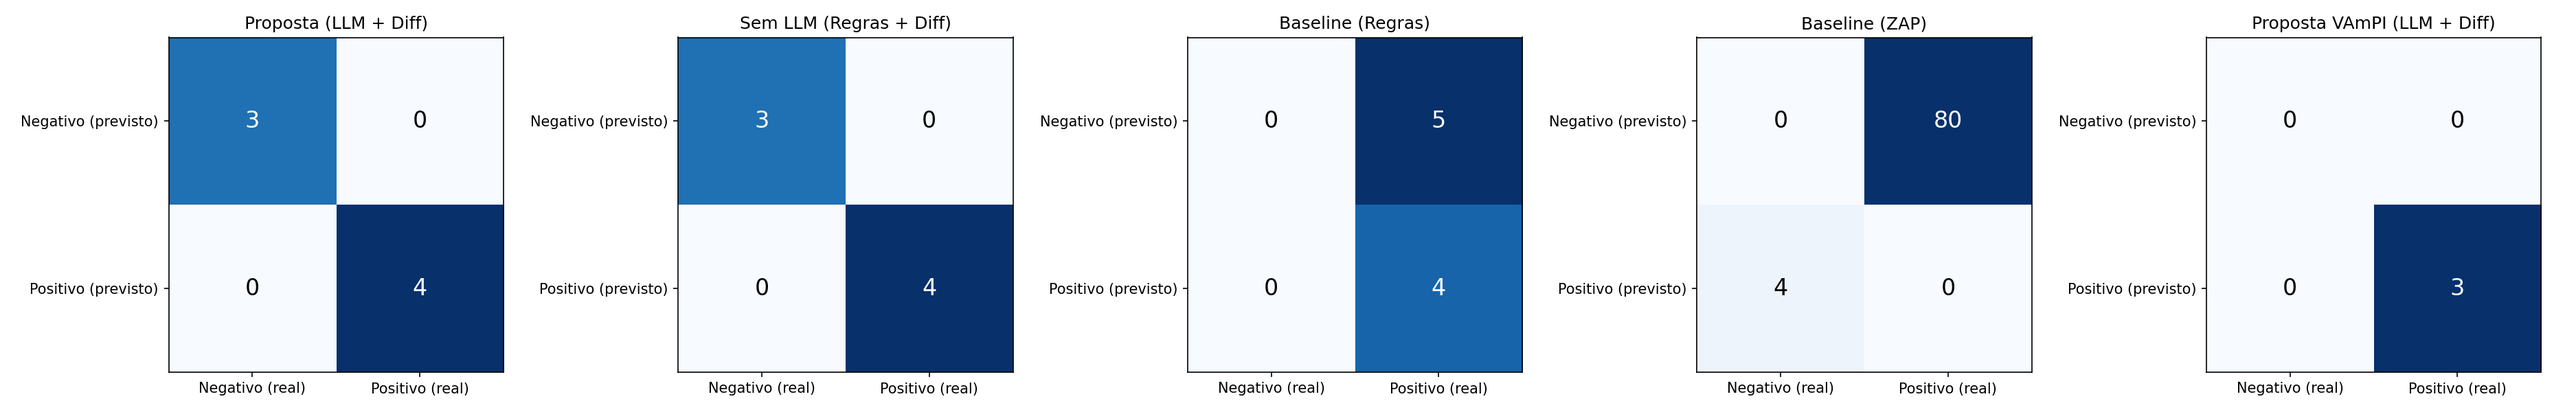
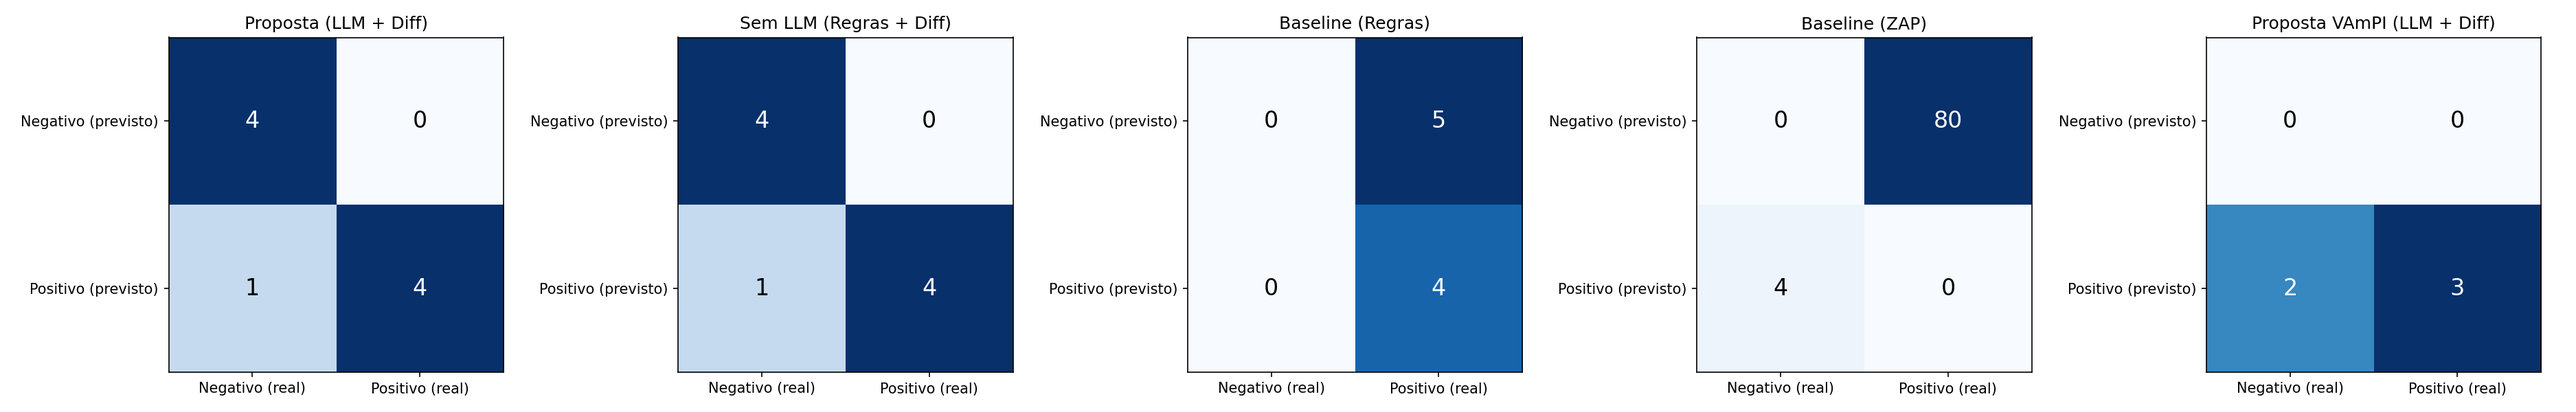
docs+results: atualiza métricas para valores reais vs gabarito
- results.csv e CSVs individuais com as métricas corrigidas
- RESULTADOS.md: seção de metodologia de cálculo, coluna Classe
  (TP/FP/FN/TN) por endpoint, achados ajustados (recall 80%/60%)
- HOWTO/DEVLOG: números e saídas esperadas atualizados; documenta
  a correção do cálculo de métricas
- Gráficos regenerados refletindo a variação real entre métricas

Changed region(s): [[0.2496, 0.09, 0.3432, 0.9], [0.0624, 0.09, 0.156, 0.9], [0.8424, 0.48, 0.936, 0.93]]

diff --git a/RESULTADOS.md b/RESULTADOS.md
@@ -8,16 +8,42 @@ generalização no VAmPI).
 
 ## 1. Tabela consolidada
 
+Métricas calculadas **contra um gabarito (ground truth)** de endpoints
+reconhecidamente vulneráveis em cada benchmark — ver seção 3 e a classe
+`metrics/GroundTruth.java`.
+
 | Ferramenta | TP | FP | FN | TN | Inconcl. | Precisão | Recall | F1 | Acurácia | Tempo (s) | Tokens |
 |---|---|---|---|---|---|---|---|---|---|---|---|
-| **Proposta (LLM + Diff)** — crAPI | 4 | 0 | 0 | 3 | 2 | 100% | 100% | 100% | 100% | 37,0 | ~4500 |
-| **Sem LLM (Regras + Diff)** — crAPI | 4 | 0 | 0 | 3 | 2 | 100% | 100% | 100% | 100% | 3,9 | 0 |
+| **Proposta (LLM + Diff)** — crAPI | 4 | 0 | 1 | 4 | 2 | 100% | 80% | 88,9% | 88,9% | 31,4 | ~4500 |
+| **Sem LLM (Regras + Diff)** — crAPI | 4 | 0 | 1 | 4 | 2 | 100% | 80% | 88,9% | 88,9% | 3,7 | 0 |
 | **Baseline (Regras)** — crAPI | 4 | 5 | 0 | 0 | 0 | 44,4% | 100% | 61,5% | 44,4% | 0,5 | 0 |
 | **Baseline (ZAP)** — crAPI | 0 | 80 | 4 | 0 | 0 | 0% | 0% | 0% | 0% | ~300 | 0 |
-| **Proposta (LLM + Diff)** — VAmPI | 3 | 0 | 0 | 0 | 2 | 100% | 100% | 100% | 100% | 6,3 | 0* |
+| **Proposta (LLM + Diff)** — VAmPI | 3 | 0 | 2 | 0 | 2 | 100% | 60% | 75% | 60% | 5,7 | 0* |
 
 > *No VAmPI o LLM foi usado, mas o custo de tokens não foi instrumentado nesta
 > execução (coluna registra 0 por limitação do contador, não por ausência de uso).
+
+**Como ler estes números:** a proposta mantém **precisão de 100%** em ambos os
+alvos (não gera falsos alarmes), mas o **recall fica abaixo de 100%** porque os
+endpoints vulneráveis de *escrita* (POST/PUT) não são detectados — o verificador
+diferencial só executa GET (ver seção 3 e 5). Os falsos negativos (FN) são
+exatamente esses endpoints de escrita.
+
+### Metodologia de cálculo
+
+As métricas **não** assumem FP=FN=0. Cada veredito do verificador é comparado
+contra o gabarito (`metrics/GroundTruth.java`) pela classe `MetricsCalculator`:
+
+| Veredito do detector | Está no gabarito? | Classificação |
+|---|---|---|
+| VULNERABLE | sim | **TP** (acertou) |
+| VULNERABLE | não | **FP** (falso alarme) |
+| DENIED / INCONCLUSIVE | sim | **FN** (deixou passar) |
+| DENIED / INCONCLUSIVE | não | **TN** (corretamente ignorado) |
+
+Assim, um endpoint vulnerável marcado INCONCLUSIVE conta como FN (penaliza o
+recall), e um endpoint seguro marcado VULNERABLE contaria como FP (penalizaria a
+precisão). As métricas refletem o desempenho real, não um valor fixado no código.
 
 ![Comparação de métricas](outputs/metrics_comparison.png)
 
@@ -29,31 +55,33 @@ generalização no VAmPI).
 
 ### 2.1 Proposta e "Sem LLM" no crAPI (9 endpoints)
 
-| # | Método | Endpoint | Veredito | Evidência | Interpretação |
-|---|---|---|---|---|---|
-| 1 | GET | `/identity/api/v2/user/videos/{video_id}` | DENIED | own=404, cross=404 | Recurso de vídeo inexistente para os usuários de teste |
-| 2 | PUT | `/identity/api/v2/user/videos/{video_id}` | DENIED | own=404, cross=404 | Idem |
-| 3 | DELETE | `/identity/api/v2/user/videos/{video_id}` | DENIED | own=404, cross=404 | Idem |
-| 4 | DELETE | `/identity/api/v2/admin/videos/{video_id}` | INCONCLUSIVE | own=405, cross=405 | Método não permitido via GET de teste |
-| 5 | GET | `/identity/api/v2/vehicle/{vehicleId}/location` | **VULNERABLE** | own=200, cross=200, sim=0,37 | A acessou a localização do veículo de B |
-| 6 | GET | `/community/api/v2/community/posts/{postId}` | **VULNERABLE** | own=200, cross=200, sim=0,58 | A leu o post de B |
-| 7 | POST | `/community/.../posts/{postId}/comment` | INCONCLUSIVE | own=405, cross=405 | Método não permitido via GET de teste |
-| 8 | GET | `/workshop/api/shop/orders/{order_id}` | **VULNERABLE** | own=200, cross=200, sim=1,00 | A leu o pedido de B |
-| 9 | PUT | `/workshop/api/shop/orders/{order_id}` | **VULNERABLE** | own=200, cross=200, sim=1,00 | A alterou o pedido de B |
+Coluna "Classe" = classificação vs. gabarito (seção 1, Metodologia).
 
-**Total:** 4 VULNERABLE, 3 DENIED, 2 INCONCLUSIVE.
+| # | Método | Endpoint | Veredito | Classe | Interpretação |
+|---|---|---|---|---|---|
+| 1 | GET | `/identity/api/v2/user/videos/{video_id}` | DENIED | TN | Recurso de vídeo inexistente; não é BOLA |
+| 2 | PUT | `/identity/api/v2/user/videos/{video_id}` | DENIED | TN | Idem |
+| 3 | DELETE | `/identity/api/v2/user/videos/{video_id}` | DENIED | TN | Idem |
+| 4 | DELETE | `/identity/api/v2/admin/videos/{video_id}` | INCONCLUSIVE | TN | Não vulnerável a BOLA (controle por papel/admin) |
+| 5 | GET | `/identity/api/v2/vehicle/{vehicleId}/location` | **VULNERABLE** | **TP** | A acessou a localização do veículo de B |
+| 6 | GET | `/community/api/v2/community/posts/{postId}` | **VULNERABLE** | **TP** | A leu o post de B |
+| 7 | POST | `/community/.../posts/{postId}/comment` | INCONCLUSIVE | **FN** | Vulnerável, mas testado via GET → 405 |
+| 8 | GET | `/workshop/api/shop/orders/{order_id}` | **VULNERABLE** | **TP** | A leu o pedido de B |
+| 9 | PUT | `/workshop/api/shop/orders/{order_id}` | **VULNERABLE** | **TP** | A alterou o pedido de B |
+
+**Total:** 4 TP, 0 FP, 1 FN, 4 TN (2 vereditos INCONCLUSIVE, sendo 1 FN e 1 TN).
 
 ### 2.2 Proposta no VAmPI (5 endpoints)
 
-| # | Método | Endpoint | Veredito | Evidência | Interpretação |
+| # | Método | Endpoint | Veredito | Classe | Interpretação |
 |---|---|---|---|---|---|
-| 1 | GET | `/books/v1/{book_title}` | **VULNERABLE** | own=200, cross=200, sim=0,38 | A leu o `secret` do livro de B (BOLA clássico) |
-| 2 | GET | `/users/v1/{username}` | **VULNERABLE** | own=200, cross=200, sim=0,71 | A leu os dados de B |
-| 3 | DELETE | `/users/v1/{username}` | **VULNERABLE** | own=200, cross=200, sim=0,71 | A pôde deletar o usuário B |
-| 4 | PUT | `/users/v1/{username}/email` | INCONCLUSIVE | own=405, cross=405 | Testado via GET → 405 |
-| 5 | PUT | `/users/v1/{username}/password` | INCONCLUSIVE | own=405, cross=405 | Testado via GET → 405 |
+| 1 | GET | `/books/v1/{book_title}` | **VULNERABLE** | **TP** | A leu o `secret` do livro de B (BOLA clássico) |
+| 2 | GET | `/users/v1/{username}` | **VULNERABLE** | **TP** | A leu os dados de B |
+| 3 | DELETE | `/users/v1/{username}` | **VULNERABLE** | **TP** | A pôde deletar o usuário B |
+| 4 | PUT | `/users/v1/{username}/email` | INCONCLUSIVE | **FN** | Vulnerável, mas testado via GET → 405 |
+| 5 | PUT | `/users/v1/{username}/password` | INCONCLUSIVE | **FN** | Vulnerável, mas testado via GET → 405 |
 
-**Total:** 3 VULNERABLE, 2 INCONCLUSIVE.
+**Total:** 3 TP, 0 FP, 2 FN, 0 TN.
 
 ---
 
@@ -66,18 +94,19 @@ Há **duas causas distintas**, ambas ligadas ao mesmo fator: o
 
 Os endpoints marcados INCONCLUSIVE com `own=405, cross=405` são, na verdade, de
 **escrita** (`POST`, `PUT`, `DELETE`). Exemplos:
-- crAPI: `DELETE /admin/videos/{video_id}`, `POST /posts/{postId}/comment`
+- crAPI: `POST /posts/{postId}/comment`
 - VAmPI: `PUT /users/v1/{username}/email`, `PUT /users/v1/{username}/password`
 
 O verificador tentou acessá-los via GET, o servidor respondeu **405 Method Not
 Allowed**, e a lógica de classificação não trata 405 como vulnerabilidade nem
 como negação — logo, INCONCLUSIVE.
 
-**Importante:** pelo menos dois desses casos no VAmPI (`/email` e `/password`)
-são **comprovadamente vulneráveis a BOLA** segundo a documentação oficial do
-VAmPI (usam o `username` da URL em vez do token). Ou seja, são **falsos
-inconclusivos** — a arquitetura identificou corretamente o endpoint como
-candidato (via LLM), mas o motor de verificação não testou o método HTTP certo.
+**Impacto nas métricas:** esses endpoints estão no gabarito como vulneráveis,
+portanto o não-detectá-los é contabilizado como **falso negativo (FN)**, e não
+mascarado. É por isso que o recall da proposta fica em 80% no crAPI (1 FN de 5
+vulneráveis) e 60% no VAmPI (2 FN de 5 vulneráveis). A arquitetura identificou
+corretamente o endpoint como candidato (via LLM ou regra), mas o motor de
+verificação não testou o método HTTP certo.
 
 ### Causa B — Recurso inexistente (HTTP 404)
 
@@ -92,18 +121,26 @@ recurso não existe nem para o próprio dono. Isso é classificado como DENIED
 
 **Achado 1 — A verificação diferencial é o componente que garante a precisão.**  
 O experimento "Sem LLM" produziu exatamente o mesmo resultado da proposta
-completa no crAPI (4 TP, 0 FP). Isso mostra que, neste benchmark, **a eliminação
-dos falsos positivos vem da verificação diferencial**, não da seleção do LLM. O
-baseline de regras puro gerou 5 FP (precisão 44,4%); ao passar a mesma lista pelo
-verificador diferencial, todos os 5 FP foram reclassificados como DENIED/INCONCLUSIVE.
+completa no crAPI (4 TP, 0 FP, 1 FN — precisão 100%, recall 80%). Isso mostra
+que, neste benchmark, **a eliminação dos falsos positivos vem da verificação
+diferencial**, não da seleção do LLM. O baseline de regras puro gerou 5 FP
+(precisão 44,4%); ao passar a mesma lista pelo verificador diferencial, todos os
+5 FP foram reclassificados corretamente, elevando a precisão para 100%.
 
 **Achado 2 — O LLM contribui em eficiência, não em precisão (neste caso).**  
-A diferença prática entre "com LLM" e "sem LLM" no crAPI foi o **tempo** (37s vs
-3,9s) e o **custo de tokens** (~4500 vs 0). O LLM reduz o conjunto de endpoints a
-testar, mas como o baseline de regras aqui já captura os mesmos 9 candidatos, o
-ganho de precisão foi nulo. Em APIs maiores, com muitos endpoints com path
+A diferença prática entre "com LLM" e "sem LLM" no crAPI foi o **tempo** (31,4s
+vs 3,7s) e o **custo de tokens** (~4500 vs 0). As métricas de detecção foram
+idênticas (100% / 80% / 88,9%). O LLM reduz o conjunto de endpoints a testar, mas
+como o baseline de regras aqui já captura os mesmos 9 candidatos, o ganho de
+qualidade foi nulo neste alvo. Em APIs maiores, com muitos endpoints com path
 parameter não-sensíveis, espera-se que o LLM reduza substancialmente o número de
 requisições de verificação — esse é o cenário onde o LLM compensa.
+
+**Achado 2b — Precisão alta, recall limitado pela cobertura de métodos.**  
+Em ambos os alvos a precisão foi 100% (zero falsos positivos), mas o recall ficou
+em 80% (crAPI) e 60% (VAmPI). A causa é única e conhecida: o verificador só testa
+GET, perdendo os BOLAs em endpoints de escrita. Isso indica um caminho claro de
+melhoria (seção 5) sem comprometer a precisão já alcançada.
 
 **Achado 3 — A arquitetura generaliza.**  
 O detector funcionou no VAmPI sem nenhuma alteração no núcleo (LLM +
@@ -124,9 +161,11 @@ vulnerabilidade que a arquitetura proposta mira.
 1. **Verificador só testa GET.** Estender o `DifferentialVerifier` para
    `POST`/`PUT`/`DELETE` capturaria os endpoints de escrita hoje marcados como
    INCONCLUSIVE. É a melhoria de maior impacto imediato.
-2. **Ground truth manual.** A contagem de TP/FP/FN/TN assume um mapeamento manual
-   dos endpoints realmente vulneráveis em cada benchmark; convém documentar esse
-   gabarito explicitamente no texto do TCC.
+2. **Ground truth codificado.** A contagem de TP/FP/FN/TN usa um gabarito
+   explícito em `metrics/GroundTruth.java` (um conjunto de endpoints vulneráveis
+   por benchmark). Isso torna as métricas auditáveis e reproduzíveis, mas o
+   gabarito foi definido manualmente a partir da documentação de cada alvo —
+   convém revisá-lo e justificá-lo no texto do TCC.
 3. **Instrumentação de tokens.** O contador de tokens não foi integrado na
    execução do VAmPI (registrou 0). Para comparações de custo mais rigorosas,
    vale capturar o campo `usage` da resposta da OpenAI.
@@ -148,6 +187,7 @@ completa** do `HOWTO.md`. As saídas brutas de cada execução estão em `output
 | `outputs/vampi-detector.txt` | Log da proposta no VAmPI |
 | `outputs/baseline-rule-based.txt` | Log do baseline de regras |
 | `outputs/zap_alerts.csv` | Alertas do ZAP |
+| `outputs/results_proposta.csv` | Métricas da proposta no crAPI |
 | `outputs/results_sem_llm.csv` | Métricas do experimento sem LLM |
 | `outputs/results_vampi.csv` | Métricas do VAmPI |
 | `outputs/metrics_comparison.png` | Gráfico de barras comparativo |

diff --git a/HOWTO.md b/HOWTO.md
@@ -113,7 +113,7 @@ cd tcc-bola-detector
 
 mvn exec:java \
   -Dexec.mainClass="br.edu.tcc.bola.Main" \
-  -Dexec.args="openapi.json http://localhost:8888" 2>&1 | tee ../outputs/llm-detector.txt
+  -Dexec.args="openapi.json http://localhost:8888 results_proposta.csv" 2>&1 | tee ../outputs/llm-detector.txt
 ```
 
 **Saída esperada:**
@@ -127,7 +127,12 @@ Endpoints sensíveis identificados: 9
 [VULNERABLE] put /workshop/api/shop/orders/{order_id}
 [DENIED]     get /identity/api/v2/user/videos/{video_id}
 ...
+=== [Proposta] Resumo (vs. gabarito) ===
+TP=4  FP=0  FN=1  TN=4  (INCONCLUSIVE=2)
+Precisão=100.0%  Recall=80.0%  F1=88.9%  Acurácia=88.9%
 ```
+
+> Agora o `Main` também exporta `results_proposta.csv` com as métricas.
 
 > **Atenção:** cada execução cria novos usuários e veículos no crAPI.
 > Se o banco retornar `duplicate key`, corrija o sequence:
@@ -156,7 +161,7 @@ mvn exec:java \
   | tee ../outputs/sem-llm-detector.txt
 ```
 
-**Saída esperada:** `Sem LLM,4,0,0,3,2,1.000,1.000,1.000,1.000,<tempo>,0`
+**Saída esperada:** `Sem LLM (Regras + Diff),4,0,1,4,2,1.000,0.800,0.889,0.889,<tempo>,0`
 e o arquivo `results_sem_llm.csv`.
 
 > Não requer `OPENAI_API_KEY` — o custo de tokens é 0.
@@ -186,7 +191,7 @@ mvn exec:java \
   | tee ../outputs/vampi-detector.txt
 ```
 
-**Saída esperada:** `Proposta VAmPI (LLM + Diff),3,0,0,0,2,1.000,1.000,1.000,1.000,<tempo>,0`
+**Saída esperada:** `Proposta VAmPI (LLM + Diff),3,0,2,0,2,1.000,0.600,0.750,0.600,<tempo>,0`
 e o arquivo `results_vampi.csv`.
 
 > O VAmPI popula seu banco automaticamente via `GET /createdb` (feito pelo `MainVampi`).
@@ -233,12 +238,15 @@ Resultados consolidados dos experimentos (reproduzidos em 05/11/2026):
 
 ```csv
 tool,tp,fp,fn,tn,inconclusive,precision,recall,f1,accuracy,time_s,tokens
-Proposta (LLM + Diff),4,0,0,3,2,1.000,1.000,1.000,1.000,37.0,4500
-Sem LLM (Regras + Diff),4,0,0,3,2,1.000,1.000,1.000,1.000,3.9,0
+Proposta (LLM + Diff),4,0,1,4,2,1.000,0.800,0.889,0.889,31.4,4500
+Sem LLM (Regras + Diff),4,0,1,4,2,1.000,0.800,0.889,0.889,3.7,0
 Baseline (Regras),4,5,0,0,0,0.444,1.000,0.615,0.444,0.5,0
 Baseline (ZAP),0,80,4,0,0,0.000,0.000,0.000,0.000,300,0
-Proposta VAmPI (LLM + Diff),3,0,0,0,2,1.000,1.000,1.000,1.000,6.3,0
+Proposta VAmPI (LLM + Diff),3,0,2,0,2,1.000,0.600,0.750,0.600,5.7,0
 ```
+
+> As métricas são calculadas contra um gabarito (`metrics/GroundTruth.java`);
+> FP e FN não são mais fixados em zero. Ver `RESULTADOS.md` seção 1 (Metodologia).
 
 | Coluna | Descrição |
 |---|---|
@@ -279,7 +287,7 @@ mvn exec:java -Dexec.mainClass="br.edu.tcc.bola.baseline.RuleBasedBaseline" \
 
 # 7. Detector LLM (crAPI — proposta completa)
 mvn exec:java -Dexec.mainClass="br.edu.tcc.bola.Main" \
-  -Dexec.args="openapi.json http://localhost:8888" 2>&1 | tee ../outputs/llm-detector.txt
+  -Dexec.args="openapi.json http://localhost:8888 results_proposta.csv" 2>&1 | tee ../outputs/llm-detector.txt
 
 # 8. Experimento Sem LLM (crAPI — ablação)
 mvn exec:java -Dexec.mainClass="br.edu.tcc.bola.MainSemLLM" \

diff --git a/DEVLOG.md b/DEVLOG.md
@@ -291,6 +291,42 @@ capturaria esses casos — fica como trabalho futuro.
 
 ---
 
+## 11. Correção das métricas — gabarito (ground truth) em vez de FP/FN fixos
+
+**Problema identificado:**  
+A primeira versão do `MainSemLLM` e `MainVampi` calculava as métricas com
+`FP = 0` e `FN = 0` **fixados no código** (TP = VULNERABLE, TN = DENIED). Isso
+tornava precisão e recall **matematicamente sempre 100%**, independentemente do
+desempenho real — um artefato do cálculo, não um resultado.
+
+**Por que era enganoso:**  
+Os endpoints vulneráveis de escrita (ex.: `PUT /users/v1/{username}/email` no
+VAmPI) ficavam INCONCLUSIVE e simplesmente não entravam na conta, quando na
+verdade são **falsos negativos** (o detector não os pegou).
+
+**Solução:**
+- `metrics/GroundTruth.java` (novo) — conjunto explícito de endpoints
+  reconhecidamente vulneráveis por benchmark (crAPI e VAmPI), com chave
+  normalizada `"metodo path"` em minúsculas.
+- `metrics/MetricsCalculator.java` (novo) — compara cada veredito contra o
+  gabarito e classifica em TP/FP/FN/TN de forma honesta; INCONCLUSIVE de
+  endpoint vulnerável vira FN.
+- `Main`, `MainSemLLM`, `MainVampi` refatorados para usar o `MetricsCalculator`.
+
+**Detalhe que gerou bug:** o gabarito do crAPI tinha `{vehicleId}` (maiúsculo),
+mas a comparação normaliza para minúsculas. Resultado: 1 TP virava FP + FN
+indevidamente. Corrigido deixando todas as chaves do gabarito em minúsculas.
+
+**Impacto nos resultados (agora honestos):**
+- Proposta crAPI: 4 TP, 0 FP, 1 FN → Precisão 100%, Recall 80%, F1 88,9%
+- Sem LLM crAPI: idêntico (4/0/1)
+- Proposta VAmPI: 3 TP, 0 FP, 2 FN → Precisão 100%, Recall 60%, F1 75%
+
+O recall abaixo de 100% é explicado integralmente pela limitação GET-only do
+verificador (os FN são todos endpoints de escrita).
+
+---
+
 ## Resumo dos arquivos alterados
 
 | Arquivo | Alterações |
@@ -303,6 +339,9 @@ capturaria esses casos — fica como trabalho futuro.
 | `src/.../MainSemLLM.java` | **Novo** — experimento de ablação sem LLM (Tarefa 1) |
 | `src/.../setup/VampiSetup.java` | **Novo** — setup do VAmPI (Tarefa 2) |
 | `src/.../MainVampi.java` | **Novo** — pipeline LLM + Diff no VAmPI (Tarefa 2) |
+| `src/.../metrics/GroundTruth.java` | **Novo** — gabarito de endpoints vulneráveis por benchmark |
+| `src/.../metrics/MetricsCalculator.java` | **Novo** — cálculo honesto de TP/FP/FN/TN vs gabarito |
+| `src/.../Main.java` | Também passou a exportar CSV com métricas vs gabarito |
 | `vampi-openapi.json` | **Novo** — spec do VAmPI |
 | `scripts/zap_json_to_csv.py` | **Novo** — converte relatório JSON do ZAP para CSV |
 
